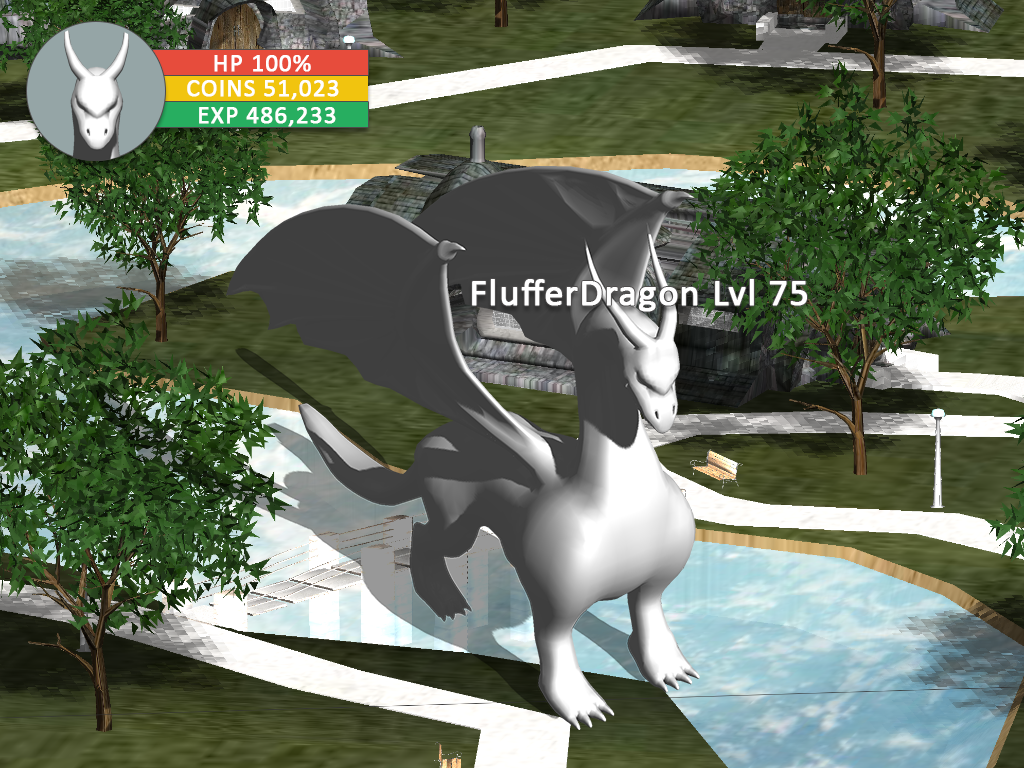
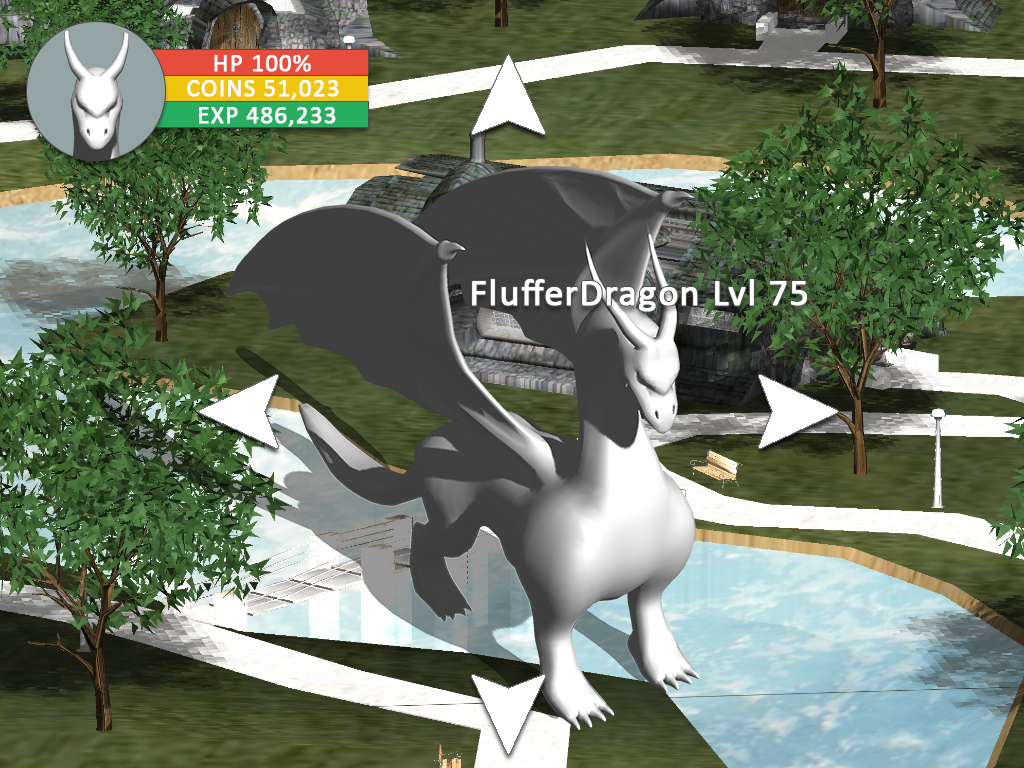
updated dragon ui to have arrows, changed blue in start screen, added docs

diff --git a/game/game.html b/game/game.html
@@ -21,7 +21,10 @@
         </div>
         
         <div class="text">
-            
+            Dragon Adventures is an adventure game where the user plays as a dragon. The dragon can collect coins to trade for food, weapons, and potions. Additionally, it levels up while exploring all there is to offer in this fantasy world. The arrows exist alongside the dragon since this is a game meant for the tablet and that will be the primary way to navigate. If the user wishes to go diagonally, then the user would be able to click on two directions (i.e. up and left) at the same time to do so. For this assignment, I used free online 3d models from 
+            {<a href="https://free3d.com/3d-model/dragon-27353.html">x</a>}
+            {<a href="https://free3d.com/3d-model/habitat-92094.html">x</a>} 
+            {<a href="https://free3d.com/3d-model/small-tropical-island-73753.html">x</a>}.
         </div>
     </body>
 </html>
